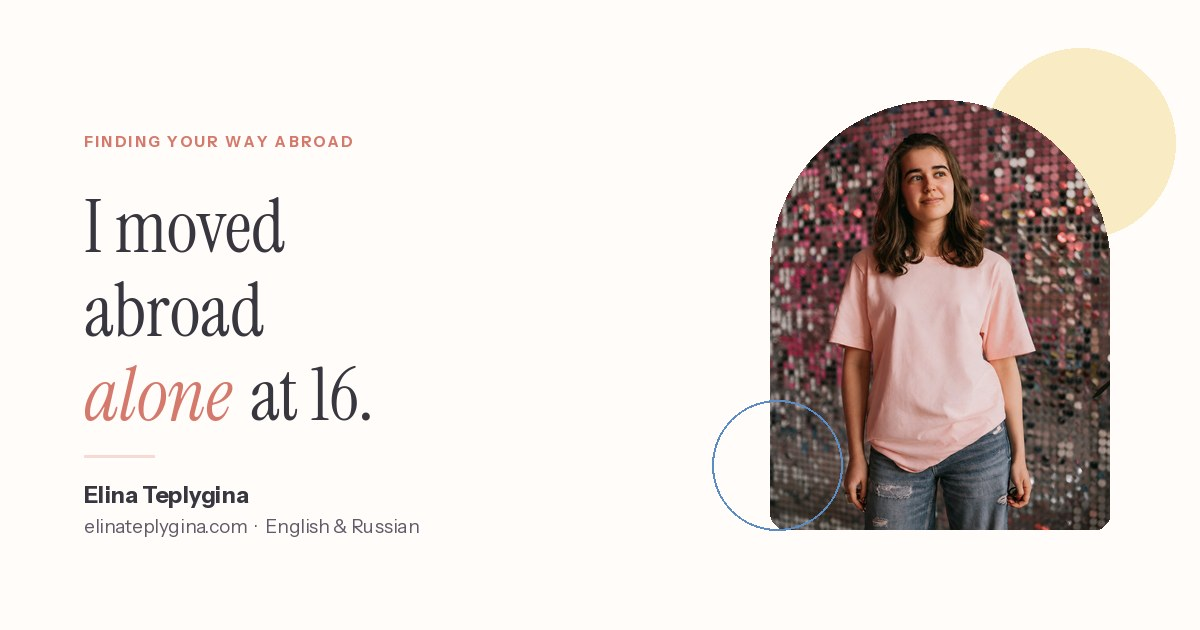
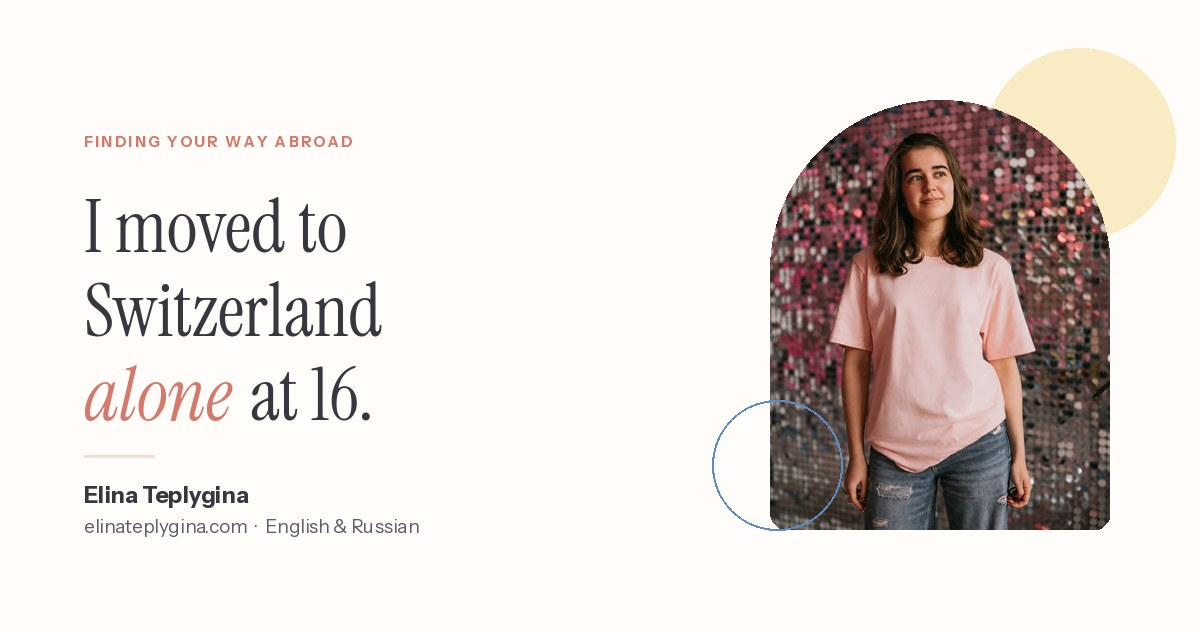
Keep the personal line in the preview, broad framing around it
Reverts only the story sentence, not the positioning. "I moved to
Switzerland alone at 16" is the concrete, personal hook and reads
stronger than the generic version; "Finding your way abroad" stays as
the promise so the offer is not limited to one country.

- Share card headline back to "I moved to Switzerland alone at 16.",
  under the "Finding your way abroad" eyebrow
- Meta and og descriptions open with the same line, then stay broad
- og:image:alt matches the card again
- Title remains "Finding your way abroad"

Claude-Session: https://claude.ai/code/session_01FribhuTMfXP2MvkCdT3FLX

Changed region(s): [[0.0617, 0.4524, 0.3392, 0.5429], [0.2467, 0.3317, 0.3083, 0.4222]]

diff --git a/index.html b/index.html
@@ -4,20 +4,20 @@
 <meta charset="UTF-8">
 <meta name="viewport" content="width=device-width, initial-scale=1.0">
 <title>Elina Teplygina | Finding your way abroad</title>
-<meta name="description" content="I moved abroad alone at 16. I help international students and young professionals find their way in a new country: studying, choosing a direction, and building a career. English &amp; Russian.">
+<meta name="description" content="I moved to Switzerland alone at 16. I help international students and young professionals find their way in a new country: studying, choosing a direction, and building a career. English &amp; Russian.">
 <meta name="color-scheme" content="light">
 
 <link rel="canonical" href="https://elinateplygina.com/">
 
 <meta property="og:title" content="Elina Teplygina | Finding your way abroad">
-<meta property="og:description" content="I moved abroad alone at 16. Now I help international students and young professionals find their way in a new country: studying, direction and career.">
+<meta property="og:description" content="I moved to Switzerland alone at 16. Now I help international students and young professionals find their way in a new country: studying, direction and career.">
 <meta property="og:type" content="website">
 <meta property="og:url" content="https://elinateplygina.com/">
 <meta property="og:site_name" content="Elina Teplygina">
 <meta property="og:image" content="https://elinateplygina.com/assets/og-image.jpg">
 <meta property="og:image:width" content="1200">
 <meta property="og:image:height" content="630">
-<meta property="og:image:alt" content="Elina Teplygina: I moved abroad alone at 16.">
+<meta property="og:image:alt" content="Elina Teplygina: I moved to Switzerland alone at 16.">
 <meta name="twitter:card" content="summary_large_image">
 <meta name="twitter:image" content="https://elinateplygina.com/assets/og-image.jpg">
 
